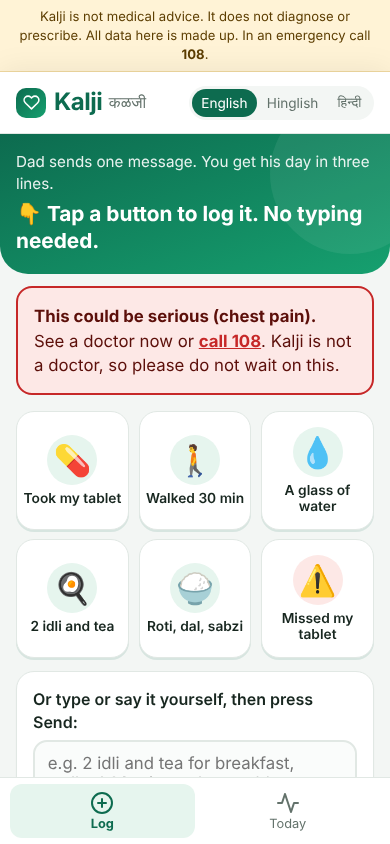
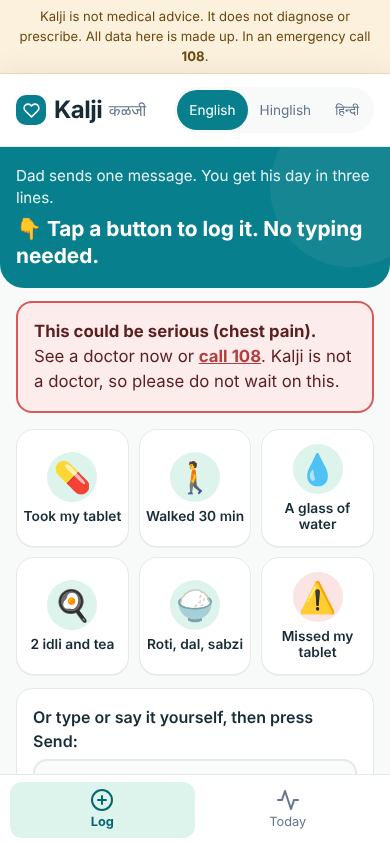
Calm teal/mint palette, flat hero, AA contrast, larger touch targets; refresh screenshots
Claude-Session: https://claude.ai/code/session_01A6zbvKyW5WtrDcwX4La53Q

diff --git a/style.css b/style.css
@@ -1,4 +1,4 @@
-:root{--g:#0d6b4f;--g2:#16a06f;--gl:#e6f5ee;--or:#ff7a1a;--bg:#f3f6f4;--ink:#17261f;--mut:#63726b;--line:#e1e8e4;--red:#c62828;--amb:#b45f06;--ok:#1a7f4b}
+:root{--g:#087F8C;--g2:#087F8C;--gl:#DDF4EC;--sky:#DCEFFA;--or:#C88525;--bg:#F8FAF9;--ink:#172B36;--mut:#64748B;--line:#E3EAE8;--red:#D65A5A;--redt:#B03F3F;--amb:#C88525;--ambt:#8A5A12;--ok:#23856D}
 *{box-sizing:border-box}
 html,body{margin:0}
 body{font-family:system-ui,-apple-system,"Segoe UI",Roboto,sans-serif;background:#dfe7e3;color:var(--ink);line-height:1.45}
@@ -95,3 +95,48 @@ section{animation:fade .25s ease}
 @media (prefers-reduced-motion:reduce){*{animation:none!important;transition:none!important}}
 .card{box-shadow:0 1px 2px rgba(0,0,0,.03)}
 button.tile .ico{transition:transform .15s}button.tile:hover .ico{transform:scale(1.06)}
+
+/* ---- Design direction: calm premium health palette (flat, low-contrast shadows, AA text) ---- */
+body{background:#E9EFED;font-size:16px;line-height:1.5;color:var(--ink)}
+.app{background:var(--bg)}
+.notice{background:#FBF1DC;color:#6B4710;border-bottom:1px solid #F0DEB6}
+.top{background:#fff}
+h1{color:var(--ink)}
+.logo{background:var(--g)}
+.hero{background:var(--g);border-radius:0 0 24px 24px}
+.hero::after{background:rgba(255,255,255,.06)}
+.ring .bg{stroke:rgba(255,255,255,.22)}
+.ring .fg{stroke:var(--gl)}
+.stat{background:rgba(255,255,255,.14)}
+.send{background:var(--g);box-shadow:0 2px 0 #066672;font-size:1.2rem;min-height:56px}
+.send:active{transform:translateY(1px);box-shadow:none}
+.mic{background:var(--gl);color:#066672;min-height:56px}
+.ghost{color:#066672;border-color:#8BC7CE;min-height:48px}
+button.tile{min-height:104px;border:1px solid var(--line);box-shadow:0 1px 0 rgba(23,43,54,.06)}
+button.tile .ico{background:var(--gl)}
+button.tile.warn .ico{background:#FBE4E4}
+.lang button{min-height:40px;padding:.4rem .75rem}
+.chips button{min-height:40px;padding:.45rem .8rem;color:#475569}
+.tabbar button{min-height:56px}
+.tabbar button[aria-selected=true]{color:#066672;background:var(--gl)}
+.undo{min-height:40px;color:#066672}
+.card{border-color:var(--line);border-radius:16px;box-shadow:none}
+.summary li{margin:.3rem 0}
+.reply{background:var(--gl);border-color:#BFE6D8;color:var(--ink)}
+.alert{background:#FDECEC;border:2px solid var(--red);color:#5B1F1F}
+.alert a,.bad{color:var(--redt)}
+.warn{color:var(--ambt)}
+.ok{color:var(--ok)}
+.tag{background:#FBF1DC;color:var(--ambt)}
+.status{border-radius:16px;box-shadow:0 4px 14px rgba(23,43,54,.08)}
+.s-ok{border-left-color:var(--ok)}.s-ok .si{background:var(--ok)}
+.s-watch{border-left-color:var(--amb)}.s-watch .si{background:var(--amb)}
+.s-red{border-left-color:var(--red);background:#FFF6F6}.s-red .si{background:var(--redt)}
+.s-none{border-left-color:#94A3B8}.s-none .si{background:#64748B}
+.status button{background:var(--g);min-height:44px}
+.nudge{border-left-color:var(--amb)}.nudge.ok{border-left-color:var(--ok)}
+.nudge a{background:var(--g);min-height:44px;display:inline-flex;align-items:center}
+.bar{background:#E3EAE8}.bar i{background:var(--g)}
+button:focus-visible,textarea:focus-visible,a:focus-visible{outline:3px solid #087F8C;outline-offset:2px}
+textarea:focus{border-color:var(--g)}
+a{color:#066672}

diff --git a/index.html b/index.html
@@ -3,7 +3,7 @@
 <head>
 <meta charset="utf-8">
 <meta name="viewport" content="width=device-width, initial-scale=1, viewport-fit=cover">
-<meta name="theme-color" content="#0d6b4f">
+<meta name="theme-color" content="#087F8C">
 <title>Kalji: a daily health check-in for your parent</title>
 <link rel="stylesheet" href="style.css">
 </head>

diff --git a/REPORT.md b/REPORT.md
@@ -197,7 +197,7 @@ All 30 cases in `tests/cases.js` pass (English, Hinglish and Hindi in Devanagari
 | N06 | One-tap quick log ("Took my tablet", "Walked 30 min", "A glass of water", a typical meal, "Missed my tablet") | Build now | My own design decision, not user-test feedback: typing is the main cost of daily use (14 of 40), and an older parent may find it hard. Presets go through the same parser as typed text. To be checked in the user test (Q5). |
 | N07 | Inside WhatsApp (bot) instead of a web page | Later | Carer 2 expects the parent to stop if it is not like normal chat. Needs the WhatsApp Business API, approval and cost; out of scope for a prototype, but the biggest adoption risk. |
 
-**Design.** The interface follows familiar health-app patterns: a calorie ring, large tile buttons, a bottom tab bar and a traffic-light status card (On track / Keep an eye / Call now / No update yet) so a carer can read the day at a glance. A confirmation appears under the header after every action, the last entry can be undone and a "Logged today" list shows what was recorded. The whole interface follows the chosen language.
+**Design.** The interface follows familiar health-app patterns: a calorie ring, large tile buttons, a bottom tab bar and a traffic-light status card (On track / Keep an eye / Call now / No update yet) so a carer can read the day at a glance. A confirmation appears under the header after every action, the last entry can be undone and a "Logged today" list shows what was recorded. The whole interface follows the chosen language. Colours are a calm teal, mint and off-white palette with no gradients; I checked that all text meets WCAG AA contrast (4.5:1), and every button is at least 40 px tall.
 
 **The core experience.** *First two minutes:* open the link, see six large tiles (tablet, walk, water, a meal, missed tablet), tap one or type or say a message, and get a confirmation ("Noted ✔ medicine: taken") or one question if something is unclear. *A normal day:* the parent sends two or three updates; the carer opens Today once, reads the status and three-line summary, and sends the suggested nudge if something is missing.
 
